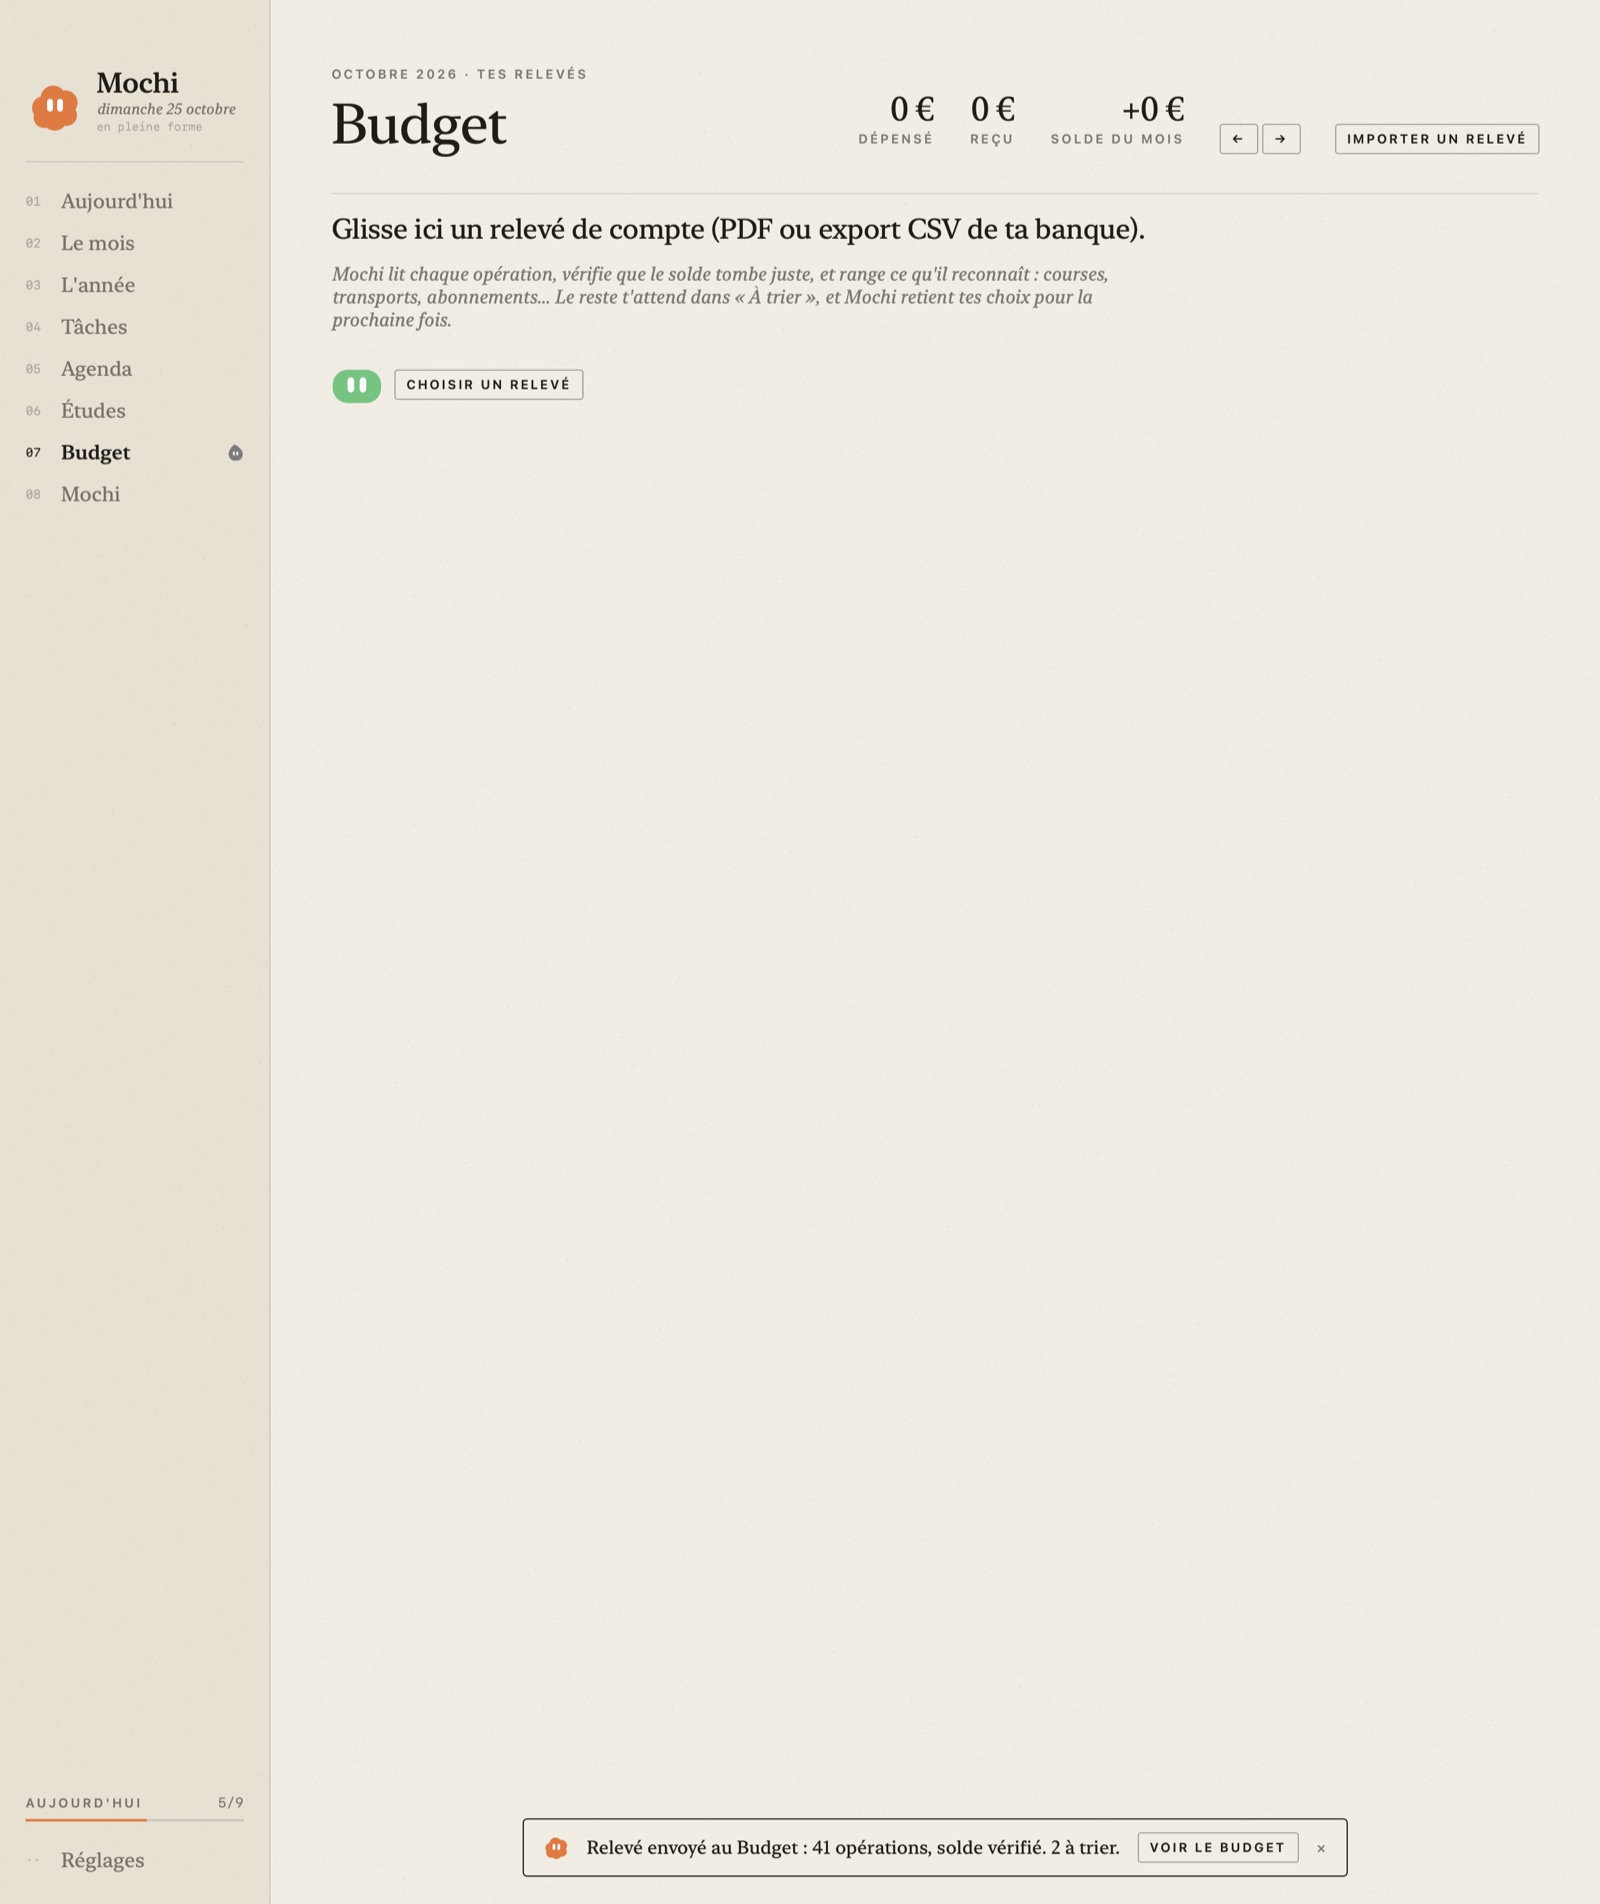
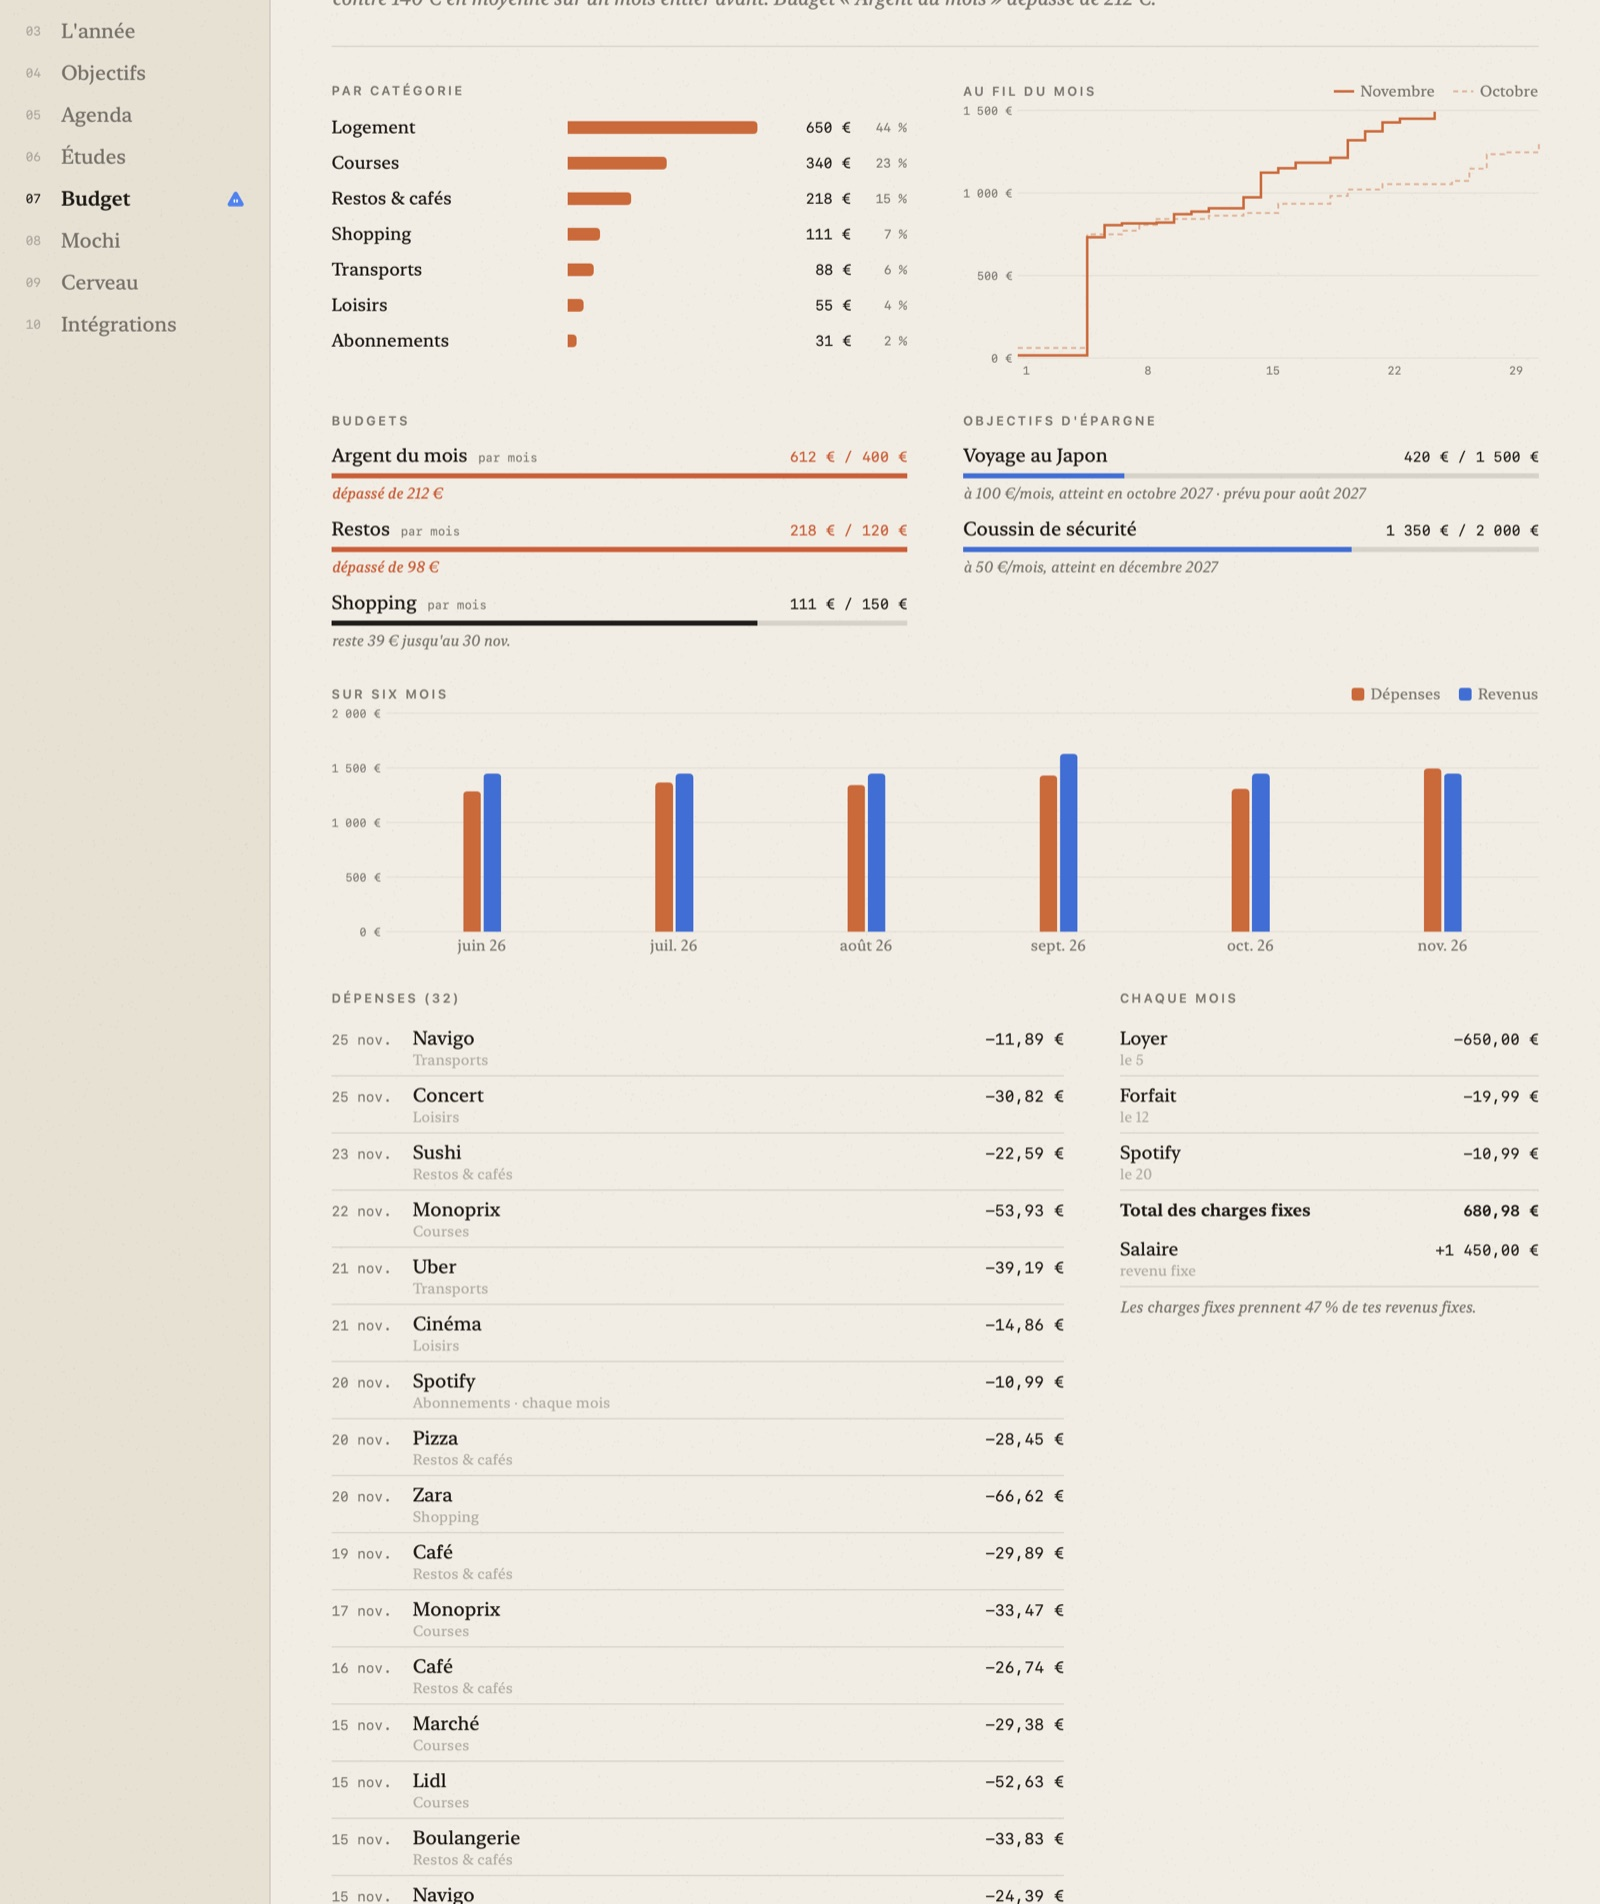
Mochi 1.12 : Budget relié à PocketPilot (accueil, confidentialité, capture)

diff --git a/index.html b/index.html
@@ -232,7 +232,7 @@
       <div><h3>Habitudes</h3><p>Tous les jours, certains jours, trois fois par semaine, deux fois par mois ou une fois par an. Une grille mensuelle comme dans un bullet journal.</p></div>
       <div><h3>Le matin</h3><p>À l'ouverture du Mac : la météo, ton premier cours et sa salle, les partiels à J-5. Puis humeur, énergie, motivation.</p></div>
       <div><h3>Études</h3><p>Ton emploi du temps importé depuis le PDF, partiels, devoirs, candidatures, une frise des semaines à venir et un minuteur de concentration par matière.</p></div>
-      <div><h3>Budget</h3><p>Glisse ton relevé bancaire : les dépenses sont classées, et les graphiques montrent où passe ton argent.</p></div>
+      <div><h3>Budget</h3><p>Relie PocketPilot, ton app de budget sur iPhone : les graphiques montrent où passe ton argent, et Mochi te dit ce qui change.</p></div>
       <div><h3>⌥ Espace</h3><p>Depuis n'importe quelle app : « réviser maths jeudi 18h ». C'est noté. Appuie deux fois pour dicter.</p></div>
       <div><h3>Capsule temporelle</h3><p>Une lettre à toi-même, scellée jusqu'au jour choisi : après les partiels, dans six mois, dans un an.</p></div>
     </div>
@@ -247,7 +247,7 @@
   <div class="wrap">
     <div class="caps">L'assistant</div>
     <h2>Il parle, si tu veux</h2>
-    <p>Mochi fonctionne entièrement sans IA. Pour lui parler (« organise ma semaine », « range ce relevé »), branche le service de ton choix : une clé NVIDIA gratuite, Claude, OpenAI, Mistral, Groq, OpenRouter, Gemini, ou une IA qui tourne sur ton Mac avec LM Studio ou Ollama.</p>
+    <p>Mochi fonctionne entièrement sans IA. Pour lui parler (« organise ma semaine », « combien j'ai dépensé en restos ce mois-ci ? »), branche le service de ton choix : une clé NVIDIA gratuite, Claude, OpenAI, Mistral, Groq, OpenRouter, Gemini, ou une IA qui tourne sur ton Mac avec LM Studio ou Ollama.</p>
     <p style="color:var(--soft)">Tout reste sur ton Mac. Seule ta demande à l'assistant part vers le service que tu as choisi.</p>
   </div>
 </section>

diff --git a/en.html b/en.html
@@ -197,7 +197,7 @@
       <div><h3>Habits</h3><p>Every day, some days, three times a week, twice a month or once a year. A monthly grid, like a bullet journal.</p></div>
       <div><h3>Mornings</h3><p>When you open your Mac: the weather, your first class and its room, exams coming up. Then mood, energy, motivation.</p></div>
       <div><h3>Studies</h3><p>Your timetable imported from a PDF, exams, assignments, applications, a timeline of the weeks ahead and a focus timer per subject.</p></div>
-      <div><h3>Budget</h3><p>Drop in your bank statement: expenses are sorted, and the charts show where your money goes.</p></div>
+      <div><h3>Budget</h3><p>Link PocketPilot, your budget app on iPhone: the charts show where your money goes, and Mochi tells you what's changing.</p></div>
       <div><h3>⌥ Space</h3><p>From any app: "revise maths Thursday 6 pm". Done. Press twice to dictate.</p></div>
       <div><h3>Time capsule</h3><p>A letter to yourself, sealed until the day you choose: after exams, in six months, in a year.</p></div>
     </div>
@@ -209,7 +209,7 @@
   <div class="wrap">
     <div class="caps">The assistant</div>
     <h2>It talks, if you want it to</h2>
-    <p>Mochi works entirely without AI. To talk to it ("organise my week", "sort this statement"), connect the service you prefer: a free NVIDIA key, Claude, OpenAI, Mistral, Groq, OpenRouter, Gemini, or an AI running on your Mac with LM Studio or Ollama.</p>
+    <p>Mochi works entirely without AI. To talk to it ("organise my week", "how much did I spend on restaurants this month?"), connect the service you prefer: a free NVIDIA key, Claude, OpenAI, Mistral, Groq, OpenRouter, Gemini, or an AI running on your Mac with LM Studio or Ollama.</p>
     <p style="color:var(--soft)">Everything stays on your Mac. Only your request to the assistant goes to the service you chose.</p>
   </div>
 </section>

diff --git a/confidentialite.html b/confidentialite.html
@@ -43,6 +43,7 @@
   <h2>Quand tu relies tes appareils, ou un ami</h2>
   <p>Si tu relies ton iPhone à ton Mac, ou si tu partages une habitude avec un ami par un code d'invitation, les données concernées passent par les serveurs d'Apple (CloudKit). Elles y sont <strong>chiffrées avec une clé tirée de ton code</strong>, avant de quitter ton appareil : sans le code, ni Apple ni le développeur ne peuvent les lire. Le code lui-même n'est jamais envoyé. Rien n'est pris sur ton stockage iCloud. Pour une synchronisation rapide, Apple peut réveiller l'iPhone par une notification silencieuse, qui ne contient aucune de tes données.</p>
   <p>Ce qui voyage entre le Mac et l'iPhone se limite à ce que l'iPhone affiche et modifie : habitudes, tâches, créneaux et échéances. Ni le budget, ni le journal, ni les conversations, ni les fichiers.</p>
+  <p>Si tu relies l'app PocketPilot (facultatif, Budget → « Connecter PocketPilot »), PocketPilot envoie ses dépenses, revenus, budgets et objectifs au Mac par la même voie, chiffrés avec un code à part. Le Mac ne fait que les lire, et les oublie quand tu délies.</p>
 
   <h2>Noter sur iPhone</h2>
   <p>Par défaut, ce que tu notes est compris sur ton iPhone, sans rien envoyer. Si ton Mac utilise un service d'IA avec ta clé et que tu acceptes de l'utiliser aussi sur l'iPhone, l'accès à ce service passe chiffré avec ton code de jumelage et reste dans le Trousseau de l'iPhone. Tes notes vont alors directement de l'iPhone à ce service, selon ses propres conditions, sans intermédiaire. Tu peux l'arrêter dans les réglages, et l'accès est effacé si tu délies le Mac.</p>

diff --git a/privacy.html b/privacy.html
@@ -43,6 +43,7 @@
   <h2>When you link your devices, or a friend</h2>
   <p>If you link your iPhone to your Mac, or share a habit with a friend using an invitation code, the data involved goes through Apple's servers (CloudKit). It is <strong>encrypted with a key derived from your code</strong> before it leaves your device: without the code, neither Apple nor the developer can read it. The code itself is never sent. None of your iCloud storage is used. To keep things in sync quickly, Apple may wake the iPhone with a silent notification, which contains none of your data.</p>
   <p>What travels between the Mac and the iPhone is limited to what the iPhone shows and changes: habits, tasks, slots and deadlines. Not the budget, the journal, the conversations or the files.</p>
+  <p>If you link the PocketPilot app (optional, Budget → “Connect PocketPilot”), PocketPilot sends its expenses, income, budgets and goals to the Mac the same way, encrypted with a separate code. The Mac only reads them, and forgets them when you unlink.</p>
 
   <h2>Noting on iPhone</h2>
   <p>By default, what you note is understood on your iPhone, with nothing sent. If your Mac uses an AI service with your key and you agree to use it on the iPhone too, access to that service travels encrypted with your pairing code and stays in the iPhone's Keychain. Your notes then go directly from the iPhone to that service, under its own terms, with nothing in between. You can stop this in Settings, and access is erased if you unlink the Mac.</p>
